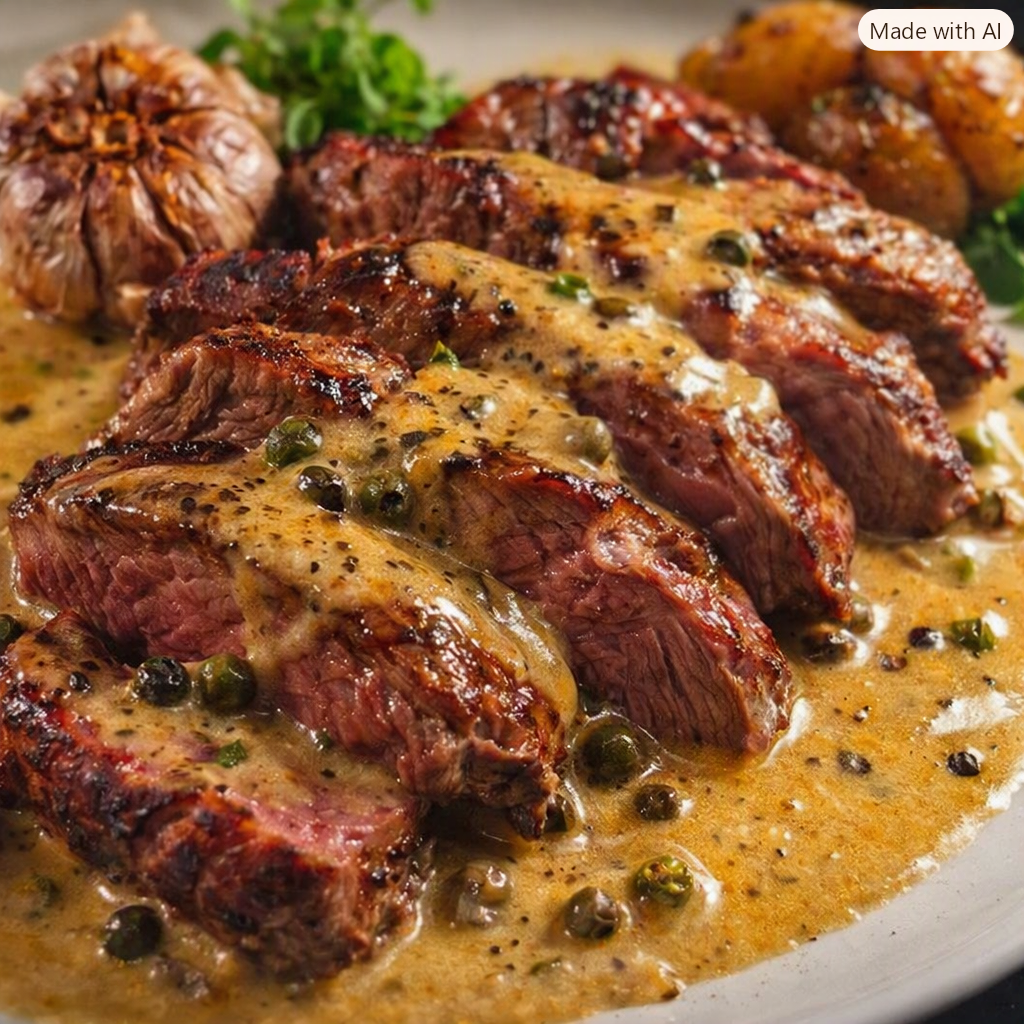
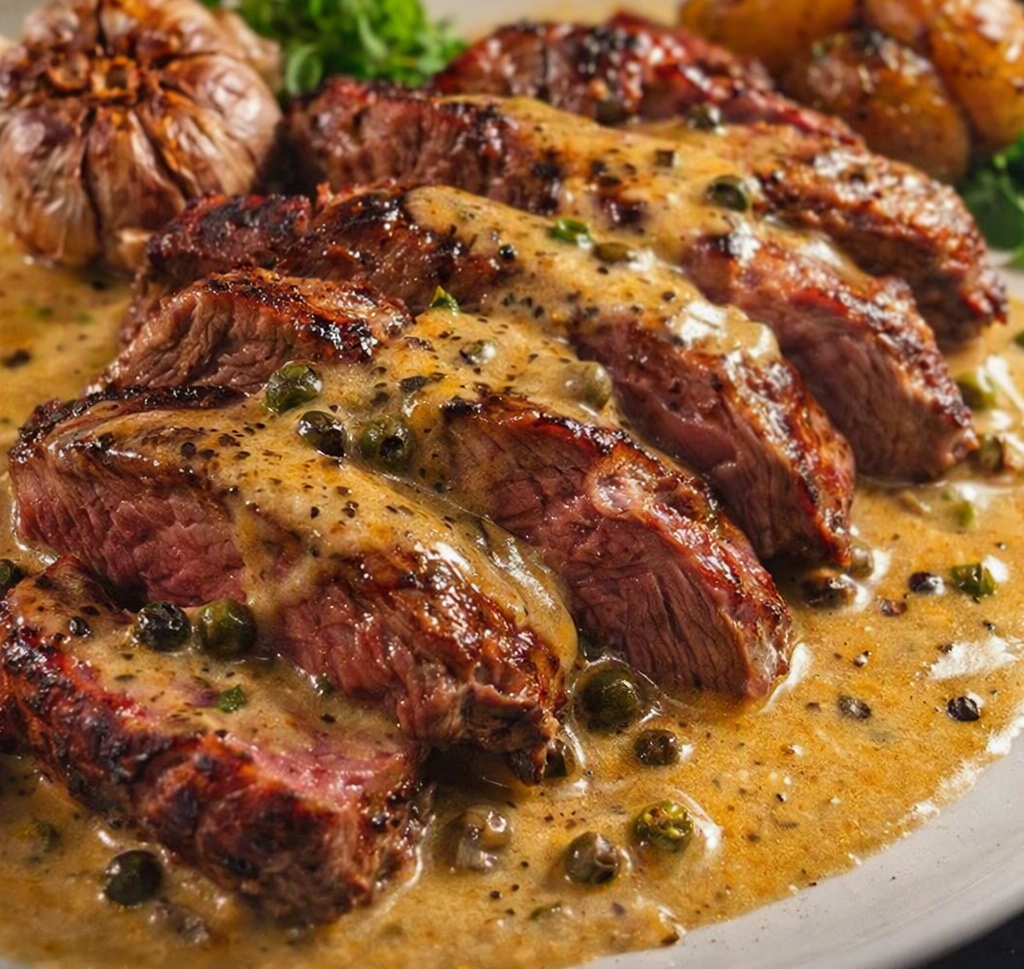
footer

diff --git a/index.html b/index.html
@@ -32,10 +32,10 @@
         </div>
         <div class="main-buttons">
             <ul class="list-nav">
-                <li><a href="#programacao">Programação</a></li>
-                <li><a href="#reservas">Reservas</a></li>
-                <li><a href="#cardapio">Cardápio</a></li>
-                <li><a href="#contatos">Contato</a></li>
+                <li><a href="#programacao"><strong>Programação</strong></a></li>
+                <li><a href="#reservas"><strong>Reservas</strong></a></li>
+                <li><a href="#cardapio"><strong>Cardápio</strong></a></li>
+                <li><a href="#contatos"><strong>Contato</strong></a></li>
             </ul>
             <h4 class="descubra">Descubra o Restaurante</h4>
         </div>
@@ -283,6 +283,7 @@
         <div class="menu-cardapio" id="flipbook">
             <div class="cardapio-track" id="cardapio">
                 <div class="img-cardapio"><img src="./imgs/acompanhamento-menu.png"></div>
+                <div class="img-cardapio-back"><img src="./imgs/acompanhamento-menu-back.png"></div>
                 <div class="img-cardapio"><img src="./imgs/porções-menu.png"></div>
                 <div class="img-cardapio"><img src="./imgs/bebidas-menu.png"></div>
             </div>
@@ -292,6 +293,43 @@
                 <button class="flip-next">></button>
                 </div>
             </div>
+        </div>
+
+        <section-footer>
+            <footer class="page-footer">
+                
+                <div class="title-footer">
+                    <img class="imgfooter" src="./imgs/LogoExemploFdTransp.png">
+                    <h3>Rest<br>Fogo e Alma</h3>
+                    <h4>Sabor com simplicidade,<br>feito no fogo. Fogo e alma</h4>
+                </div>
+                <div class="adress-footer">
+                    <img class="imgfooter" src="./imgs/alfinetMaps.png">
+                    <h3>Endereço</h3>
+                    <h4>R. Itupava, 1377 — <br>Alto da XV Curitiba</h4>
+                    <h4>Reservas via WhatsApp</h4>
+                </div>
+                <div class="horario-footer">
+                    <img class="imgfooter" src="./imgs/relogioTransp.png">
+                    <h3>HORÁRIOS</h3>
+                    <H4>Terça a Sex  19h – 00h<br>
+                        Sábado · 19h – 00h30<br>
+                        Domingo · 12h – 16h</H4>
+                </div>
+                <div class="contato-footer">
+                    <img class="imgfooter" src="./imgs/TelDourado02.png"> 
+                    <h3>CONTATO</h3>
+                    <div class="redeSocialFooter">
+                    <a href="https://wa.me/5541995948968" target="_blank">WhatsApp — 41 99594-8068</a>
+                    <a href="https://www.instagram.com/_tech.lion/" target="_blank" class="social-icon">Instagram — @seu-insta-aqui</a>
+                    </div>
+                </div>
+                
+            </footer>
+            
+        </section-footer>
+        <div class="direitos">
+            <a>Todos os Direitos Reservados - Tech.Lion</a>
         </div>
 
         <!-- <div class="flipbook">
@@ -305,7 +343,7 @@
                 <img src="./imgs/bebidas-menu.png" alt="Bebidas">
         </div> -->
 
-        <script src="https://code.jquery.com/jquery-3.6.0.min.js"></script>
+        <!-- <script src="https://code.jquery.com/jquery-3.6.0.min.js"></script>
         <script src="https://cdnjs.cloudflare.com/ajax/libs/turn.js/4.1.0/turn.min.js"></script>
         <script>
         
@@ -319,7 +357,7 @@
             duration: 1000
             });
         });
-        </script>
+        </script> -->
 
 
     </section>

diff --git a/style.css b/style.css
@@ -922,6 +922,103 @@ img {
     z-index: 9999;
 }
 
+.img-cardapio-back {
+  position: absolute;
+  width: 80%;
+  height: 100%;
+  backface-visibility: hidden;
+}
+
+.img-cardapio-back {
+  transform: rotateY(180deg);
+}
+
+section-footer{
+    width: 100%;
+    height: 300px;
+    background-color: rgba(43, 42, 42, 0.5);
+    display: flex;
+    justify-content: space-around;
+    flex-direction: row;
+    align-items: center;
+    font-family: 'Courier New', Courier, monospace;
+    margin-top: 250px;
+    gap: 2px;
+    border-radius: 20px;
+}
+
+.imgfooter{
+    width: 40%;
+    height: 120px;
+}
+
+.title-footer{
+    display: flex;
+    flex-direction: column;
+    gap: 15px;
+    align-items: center;
+}
+.title-footer:hover{
+    transform: scale(1.2);
+    transition: 0.4s;
+}
+.page-footer{
+    display: flex;
+    flex-direction: row;
+}
+.adress-footer{
+    display: flex;
+    flex-direction: column;
+    gap: 15px;
+    margin-left: 35px;
+    align-items: center;
+}
+.adress-footer:hover{
+    transform: scale(1.2);
+    transition: 0.4s;
+}
+.horario-footer{
+    display: flex;
+    flex-direction: column;
+    gap: 15px;
+    margin-left: 35px;
+    align-items: center;
+}
+.horario-footer:hover{
+    transform: scale(1.2);
+    transition: 0.4s;
+}
+
+.contato-footer{
+    display: flex;
+    flex-direction: column;
+    gap: 15px;
+    margin-left: 35px;
+    align-items: center;
+}
+.contato-footer:hover{
+    transform: scale(1.2);
+    transition: 0.4s;
+}
+.redeSocialFooter a{
+    display: flex;
+    justify-content: center;
+    flex-direction: column;
+    align-items: center;
+    list-style: none;
+    text-decoration: none;
+    color: #fff;
+}
+.redeSocialFooter a:hover{
+    color: blueviolet;
+    transition: 0.4s;
+}
+
+.direitos{
+    display: flex;
+    justify-content: center;
+    margin-bottom: 0%;
+}
 
 /*responsividade//*
 /* Telas pequenas (celulares) */
@@ -1901,8 +1998,77 @@ img {
 .flip-next{
     z-index: 9999;
 }
+section-footer{
+    width: 100%;
+    height: 300px;
+    background-color: rgba(43, 42, 42, 0.5);
+    display: flex;
+    justify-content: space-around;
+    flex-direction: row;
+    align-items: center;
+    font-family: 'Courier New', Courier, monospace;
+    margin-top: 250px;
+    gap: 2px;
+    border-radius: 20px;
+}
+.imgfooter{
+    width: 40%;
+    height: 100px;
+}
+
+.title-footer{
+    display: flex;
+    flex-direction: column;
+    gap: 15px;
+}
+.title-footer:hover{
+    transform: scale(1.2);
+    transition: 0.4s;
+}
+.page-footer{
+    display: flex;
+    flex-direction: row;
+}
+.adress-footer{
+    display: flex;
+    flex-direction: column;
+    gap: 15px;
+    margin-left: 35px;
+}
+.adress-footer:hover{
+    transform: scale(1.2);
+    transition: 0.4s;
+}
+.horario-footer{
+    display: flex;
+    flex-direction: column;
+    gap: 15px;
+    margin-left: 35px;
+}
+.horario-footer:hover{
+    transform: scale(1.2);
+    transition: 0.4s;
+}
+
+.contato-footer{
+    display: flex;
+    flex-direction: column;
+    gap: 15px;
+    margin-left: 35px;
+}
+.contato-footer:hover{
+    transform: scale(1.2);
+    transition: 0.4s;
+}
+
+.direitos{
+    display: flex;
+    justify-content: center;
+    margin-bottom: 0%;
+}
 
 }
+
 
 
 /* Tablets */
